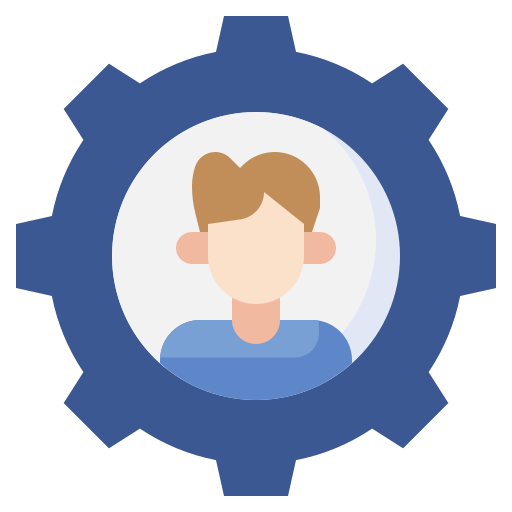
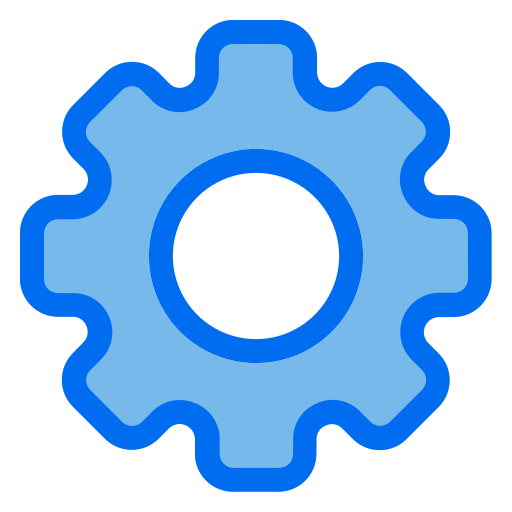
feat: add exam essentials button, update styles and dashboard components

diff --git a/dashboard/dashboard.js b/dashboard/dashboard.js
@@ -2182,10 +2182,13 @@ async function showNextExamReport() {
                                     <!-- Session report icon moved here -->
                                     <div style="display:flex;gap:10px;align-items:center;justify-content:center;">
                                         <button id="printSeatNumbersBtn" class="btn btn-outline-primary btn-sm p-0" type="button" title="چاپ شماره صندلی" onclick="try{ printSeatNumbersReport(); }catch(e){ console.error(e); }" style="display:inline-block;">
-                                            <img src="/assets/app/Seat.png" alt="شماره صندلی" style="width:140px;height:140px;object-fit:contain;display:block;pointer-events:none;">
+                                            <img src="/assets/app/seat.png" alt="شماره صندلی" style="width:140px;height:140px;object-fit:contain;display:block;pointer-events:none;">
                                         </button>
                                         <button id="printSessionReportBtn" class="btn btn-outline-primary btn-sm p-0" type="button" title="چاپ صورتجلسه" onclick="try{ printSessionReport(); }catch(e){ console.error(e); }" style="display:inline-block;">
                                             <img src="/assets/app/report.png" alt="صورتجلسه" style="width:140px;height:140px;object-fit:contain;display:block;pointer-events:none;">
+                                        </button>
+                                        <button id="examEssentialsBtn" class="btn btn-outline-primary btn-sm p-0" type="button" title="ملزومات آزمون" onclick="try{ examEssentialsHandler(); }catch(e){ console.error(e); }" style="display:inline-block;">
+                                            <img src="/assets/app/Essentials.png" alt="ملزومات آزمون" style="width:140px;height:140px;object-fit:contain;display:block;pointer-events:none;">
                                         </button>
                                     </div>
                                 </div>
@@ -3022,4 +3025,15 @@ async function printSeatNumbersReport() {
         console.error('Error building printable report:', err);
         Swal.fire({ icon: 'error', title: 'خطا', text: 'خطا در آمادهسازی گزارش چاپ', confirmButtonText: 'باشه', customClass: { popup: 'swal2-rtl swal2-glass', confirmButton: 'btn btn-primary' } });
     }
+}
+
+// Placeholder function for exam essentials handler
+async function examEssentialsHandler() {
+    Swal.fire({
+        icon: 'info',
+        title: 'ملزومات آزمون',
+        text: 'این قابلیت به زودی اضافه خواهد شد',
+        confirmButtonText: 'باشه',
+        customClass: { popup: 'swal2-rtl swal2-glass', confirmButton: 'btn btn-primary' }
+    });
 }

diff --git a/assets/app/style.css b/assets/app/style.css
@@ -404,7 +404,7 @@ body::after {
 .mini-pie + div { text-align: center; }
 
 /* Print buttons (icons) should match mini-pie size and have subtle hover like other dashboard elements */
-#printSeatNumbersBtn, #printSessionReportBtn {
+#printSeatNumbersBtn, #printSessionReportBtn, #examEssentialsBtn {
   background: transparent !important;
   border: none !important;
   padding: 0 !important;
@@ -414,7 +414,7 @@ body::after {
   border-radius: 8px;
   transition: transform 0.15s ease, box-shadow 0.15s ease;
 }
-#printSeatNumbersBtn img, #printSessionReportBtn img {
+#printSeatNumbersBtn img, #printSessionReportBtn img, #examEssentialsBtn img {
   width: 100%;
   height: 100%;
   object-fit: contain;
@@ -422,14 +422,14 @@ body::after {
   pointer-events: none;
 }
 /* Avoid the default bootstrap outline/blue background on hover; just subtle lift */
-#printSeatNumbersBtn:hover, #printSeatNumbersBtn:focus, #printSessionReportBtn:hover, #printSessionReportBtn:focus {
+#printSeatNumbersBtn:hover, #printSeatNumbersBtn:focus, #printSessionReportBtn:hover, #printSessionReportBtn:focus, #examEssentialsBtn:hover, #examEssentialsBtn:focus {
   transform: translateY(-4px);
   /* intentionally no box-shadow or blue background — subtle lift only */
   background: transparent !important;
 }
 /* Small screens: match mini-pie responsive size */
 @media (max-width: 900px) {
-  #printSeatNumbersBtn, #printSessionReportBtn { width: 100px; height: 100px; }
+  #printSeatNumbersBtn, #printSessionReportBtn, #examEssentialsBtn { width: 100px; height: 100px; }
 }
 .mini-pie { cursor: pointer; }
 .mini-pie + div { text-align: center; }

diff --git a/dashboard/index.php b/dashboard/index.php
@@ -119,18 +119,6 @@ if ($licenseStatus['valid'] !== true) {
                     </div>
                 </div>
 
-                <!-- Three red buttons under the main chart (each fills its column width) -->
-                <div class="row mt-3 g-2" id="customButtonsRow">
-                    <div class="col-12 col-md-4">
-                        <button id="customCardOne" class="btn btn-danger w-100" type="button" style="font-size:1.1rem;font-weight:700;">دفترچه منشی</button>
-                    </div>
-                    <div class="col-12 col-md-4">
-                        <button id="customCardTwo" class="btn btn-danger w-100" type="button" style="font-size:1.1rem;font-weight:700;">دفترچه اتاق قرنطینه</button>
-                    </div>
-                    <div class="col-12 col-md-4">
-                        <button id="customCardThree" class="btn btn-danger w-100" type="button" style="font-size:1.1rem;font-weight:700;"> برچسب پاکتهای تشریحی</button>
-                    </div>
-                </div>
             </div>
 
             <!-- Latest Request Report -->
